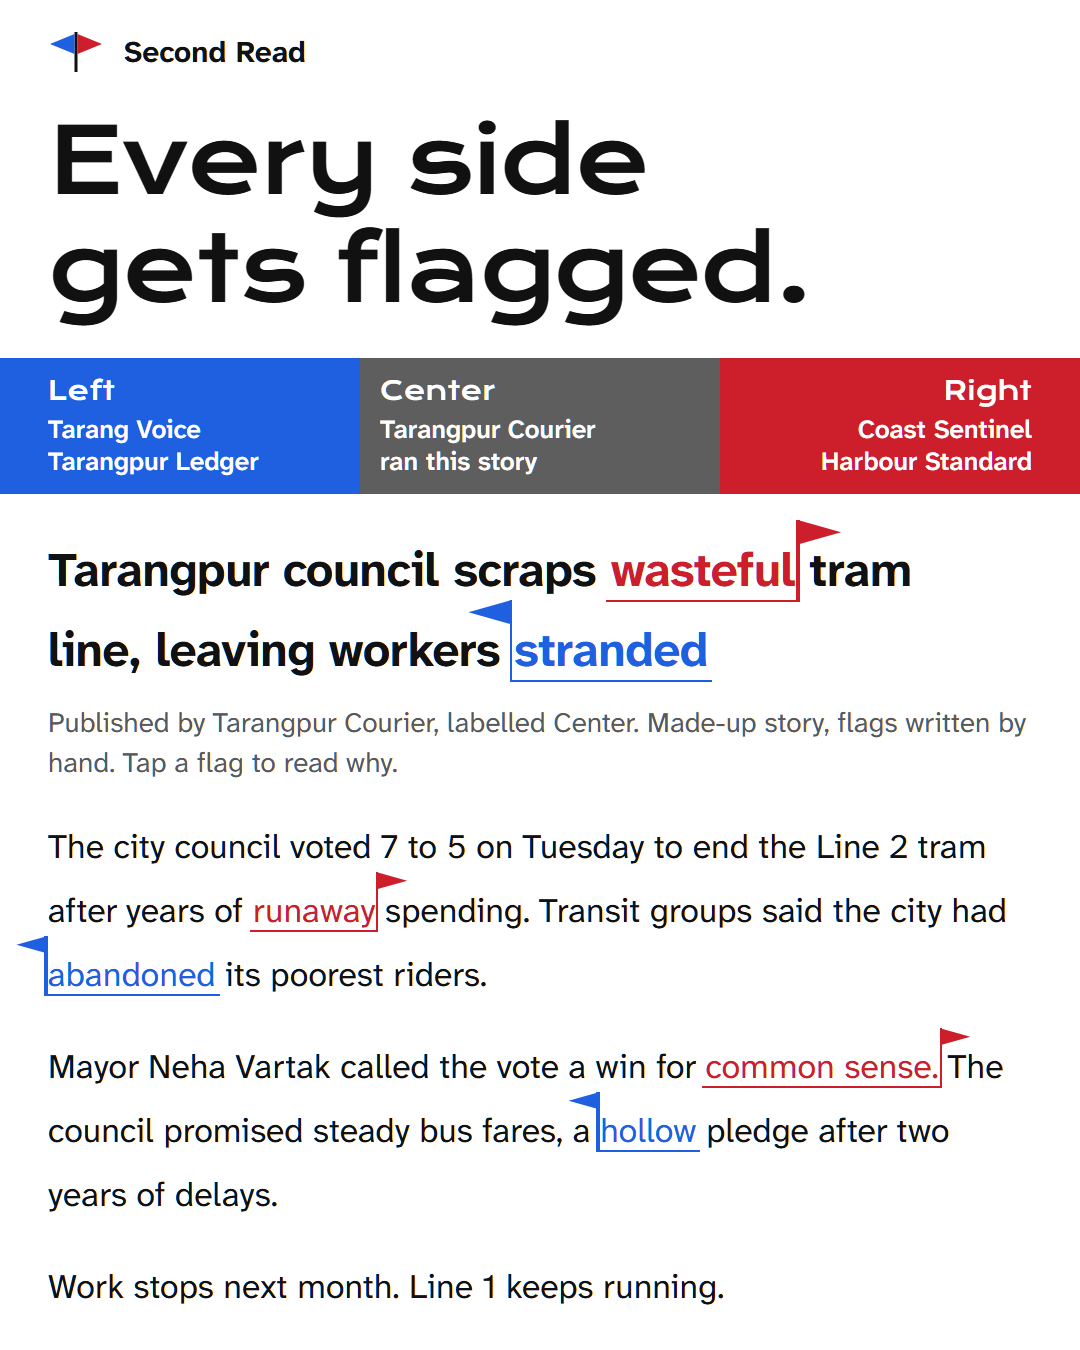
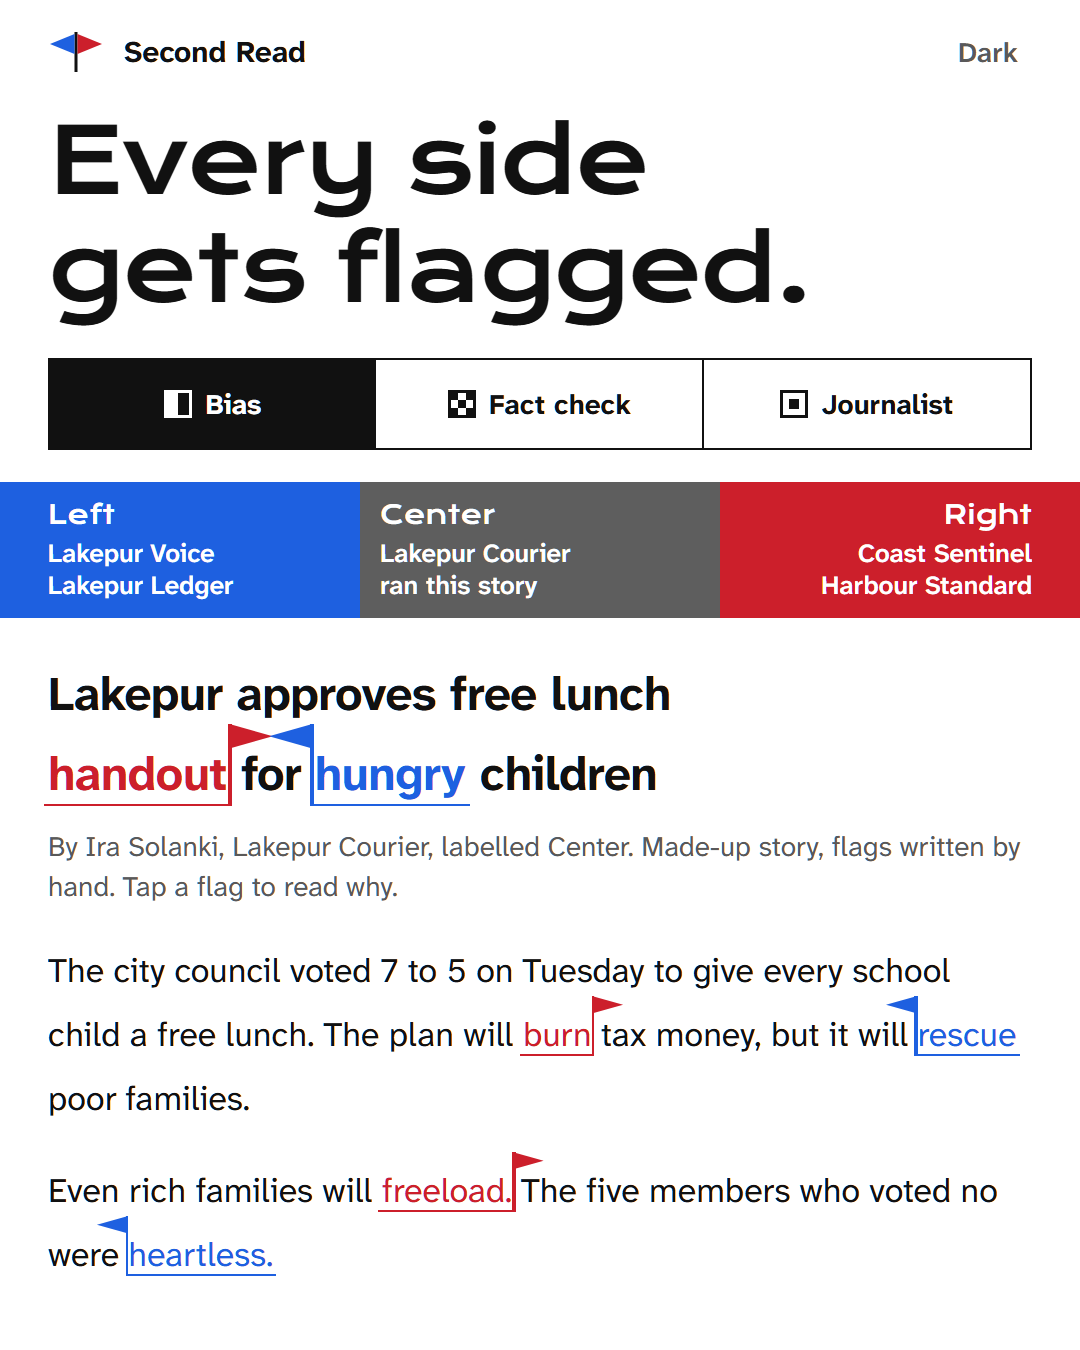
second-read: swap the tram story for a simple school lunch story
The tram story was confusing. The new one keeps 3 flags each way and
ties the fact check and journalist tabs to the article. All six flags
now fit on the first phone screen. share.png recaptured.

Changed region(s): [[0.0, 0.2489, 1.0, 0.9644], [0.8861, 0.0311, 0.9472, 0.0622]]

diff --git a/builds/second-read/index.html b/builds/second-read/index.html
@@ -58,18 +58,18 @@
       <div id="p-bias" role="tabpanel" aria-labelledby="t-bias">
         <figure class="cloth">
           <div class="fields" role="group" aria-label="Outlet labels">
-            <div class="field l"><b>Left</b><span>Tarang Voice</span><span>Tarangpur Ledger</span></div>
-            <div class="field c"><b>Center</b><span>Tarangpur Courier</span><span>ran this story</span></div>
+            <div class="field l"><b>Left</b><span>Lakepur Voice</span><span>Lakepur Ledger</span></div>
+            <div class="field c"><b>Center</b><span>Lakepur Courier</span><span>ran this story</span></div>
             <div class="field r"><b>Right</b><span>Coast Sentinel</span><span>Harbour Standard</span></div>
           </div>
         </figure>
 
         <article class="story" id="story">
-          <h2 class="panel-head">Tarangpur council scraps <span class="mark" data-id="wasteful" data-side="right" data-onload>wasteful</span> tram line, leaving workers <span class="mark" data-id="stranded" data-side="left" data-onload>stranded</span></h2>
-          <p class="by">Published by Tarangpur Courier, labelled Center. Made-up story, flags written by hand. Tap a flag to read why.</p>
-          <p class="body">The city council voted 7 to 5 on Tuesday to end the Line 2 tram after years of <span class="mark" data-id="runaway" data-side="right" data-pair="0">runaway</span> spending. Transit groups said the city had <span class="mark" data-id="abandoned" data-side="left" data-pair="0">abandoned</span> its poorest riders.</p>
-          <p class="body">Mayor Neha Vartak called the vote a win for <span class="mark" data-id="common sense" data-side="right" data-pair="1">common sense.</span> The council promised steady bus fares, a <span class="mark" data-id="hollow" data-side="left" data-pair="1">hollow</span> pledge after two years of delays.</p>
-          <p class="body">Work stops next month. Line 1 keeps running.</p>
+          <h2 class="panel-head">Lakepur approves free lunch <span class="mark" data-id="handout" data-side="right" data-onload>handout</span> for <span class="mark" data-id="hungry" data-side="left" data-onload>hungry</span> children</h2>
+          <p class="by">By Ira Solanki, Lakepur Courier, labelled Center. Made-up story, flags written by hand. Tap a flag to read why.</p>
+          <p class="body">The city council voted 7 to 5 on Tuesday to give every school child a free lunch. The plan will <span class="mark" data-id="burn" data-side="right" data-pair="0">burn</span> tax money, but it will <span class="mark" data-id="rescue" data-side="left" data-pair="0">rescue</span> poor families.</p>
+          <p class="body">Even rich families will <span class="mark" data-id="freeload" data-side="right" data-pair="1">freeload.</span> The five members who voted no were <span class="mark" data-id="heartless" data-side="left" data-pair="1">heartless.</span></p>
+          <p class="body">Most children in Lakepur skip breakfast. Lunches start in January. Mayor Neha Vartak says attendance will double.</p>
         </article>
 
         <p class="point">The outlet gets one label. One article from it leans both ways.</p>
@@ -77,24 +77,24 @@
 
       <div id="p-fact" role="tabpanel" aria-labelledby="t-fact" hidden>
         <div class="work-head" id="claims-top">
-          <h2 class="panel-head">Claims from the tram story</h2>
+          <h2 class="panel-head">Claims from the school lunch story</h2>
           <p class="by">From the story on the Bias tab. Made-up claims, verdicts written by hand.</p>
           <p class="point lead">The verdict waits until you have read.</p>
           <ol class="claims" id="claims">
             <li class="claim">
               <svg class="flag" viewBox="0 0 22 22" aria-hidden="true"><rect x=".75" y=".75" width="20.5" height="20.5" fill="var(--ground)" stroke="var(--ink)" stroke-width="1.5"/><path d="M1 5.4h20v5.6H1zM1 16.6h20V21H1z" fill="var(--ink)"/></svg>
-              <p class="quote">"The city council voted 7 to 5 on Tuesday."</p>
+              <p class="quote">"The city council voted 7 to 5 on Tuesday"</p>
               <div class="verdict"><b>Holds</b><p>The council minutes record the same count.</p></div>
             </li>
             <li class="claim">
               <svg class="flag" viewBox="0 0 22 22" aria-hidden="true"><rect x=".75" y=".75" width="20.5" height="20.5" fill="var(--ground)" stroke="var(--ink)" stroke-width="1.5"/><path d="M1 1l20 20M21 1L1 21" stroke="var(--ink)" stroke-width="4" fill="none"/></svg>
-              <p class="quote">"years of runaway spending"</p>
-              <div class="verdict"><b>No proof</b><p>The story gives no spending figure and cites no record.</p></div>
+              <p class="quote">"Most children in Lakepur skip breakfast."</p>
+              <div class="verdict"><b>No proof</b><p>The story cites no survey and gives no number.</p></div>
             </li>
             <li class="claim">
               <svg class="flag" viewBox="0 0 22 22" aria-hidden="true"><rect x=".75" y=".75" width="20.5" height="20.5" fill="var(--ground)" stroke="var(--ink)" stroke-width="1.5"/><path d="M21 1v20H1z" fill="var(--ink)"/></svg>
-              <p class="quote">"Line 1 keeps running."</p>
-              <div class="verdict"><b>Can't check yet</b><p>This is a plan, not a record.</p></div>
+              <p class="quote">"Mayor Neha Vartak says attendance will double."</p>
+              <div class="verdict"><b>Can't check yet</b><p>This is a guess about next year, not a record.</p></div>
             </li>
           </ol>
         </div>
@@ -103,13 +103,13 @@
       <div id="p-journalist" role="tabpanel" aria-labelledby="t-journalist" hidden>
         <div class="work-head">
           <h2 class="panel-head">Ira Solanki</h2>
-          <p class="by">Made-up reporter. Wrote the tram story.</p>
+          <p class="by">Made-up reporter. Wrote the school lunch story.</p>
           <dl class="log">
-            <div><dt>Now</dt><dd>Tarangpur Courier, labelled Center</dd></div>
+            <div><dt>Now</dt><dd>Lakepur Courier, labelled Center</dd></div>
             <div><dt>Before</dt><dd>Harbour Standard, labelled Right</dd></div>
-            <div><dt>Covers</dt><dd>City council and transit</dd></div>
+            <div><dt>Covers</dt><dd>City council and schools</dd></div>
             <div><dt>Corrections</dt><dd>Two printed. One date, one vote count.</dd></div>
-            <div><dt>Disclosed</dt><dd>Her brother works for the transit union.</dd></div>
+            <div><dt>Disclosed</dt><dd>Her two children go to school in Lakepur.</dd></div>
           </dl>
           <p class="point">This page flags words, not people.</p>
         </div>

diff --git a/builds/second-read/app.js b/builds/second-read/app.js
@@ -2,12 +2,12 @@
   var root = document.documentElement;
   var q = new URLSearchParams(location.search);
   var NOTES = {
-    'wasteful': ['Right', 'Decides the line was not worth the cost. The story shows no cost.'],
-    'stranded': ['Left', 'Assumes riders have no other way to work. The story names none.'],
-    'runaway': ['Right', 'Says spending was out of control, but gives no figure.'],
-    'common sense': ['Right', 'Treats one side of a split vote as the obvious choice.'],
-    'abandoned': ['Left', 'Turns a budget vote into a broken duty.'],
-    'hollow': ['Left', 'The reporter judges the promise before it is tested.']
+    'handout': ['Right', 'Makes a school meal sound like charity.'],
+    'hungry': ['Left', 'Says the children are hungry. The story gives no count.'],
+    'burn': ['Right', 'Says the money is wasted before the plan starts.'],
+    'rescue': ['Left', 'Says the plan saves families. The story shows no proof.'],
+    'freeload': ['Right', 'Calls families cheats for taking what every child gets.'],
+    'heartless': ['Left', 'Judges why five people voted no. The story gives no reason.']
   };
   var GLYPHS = '<i class="rule" aria-hidden="true"></i><i class="staff" aria-hidden="true"></i><i class="pennant" aria-hidden="true"></i>';
   var story = document.getElementById('story');
